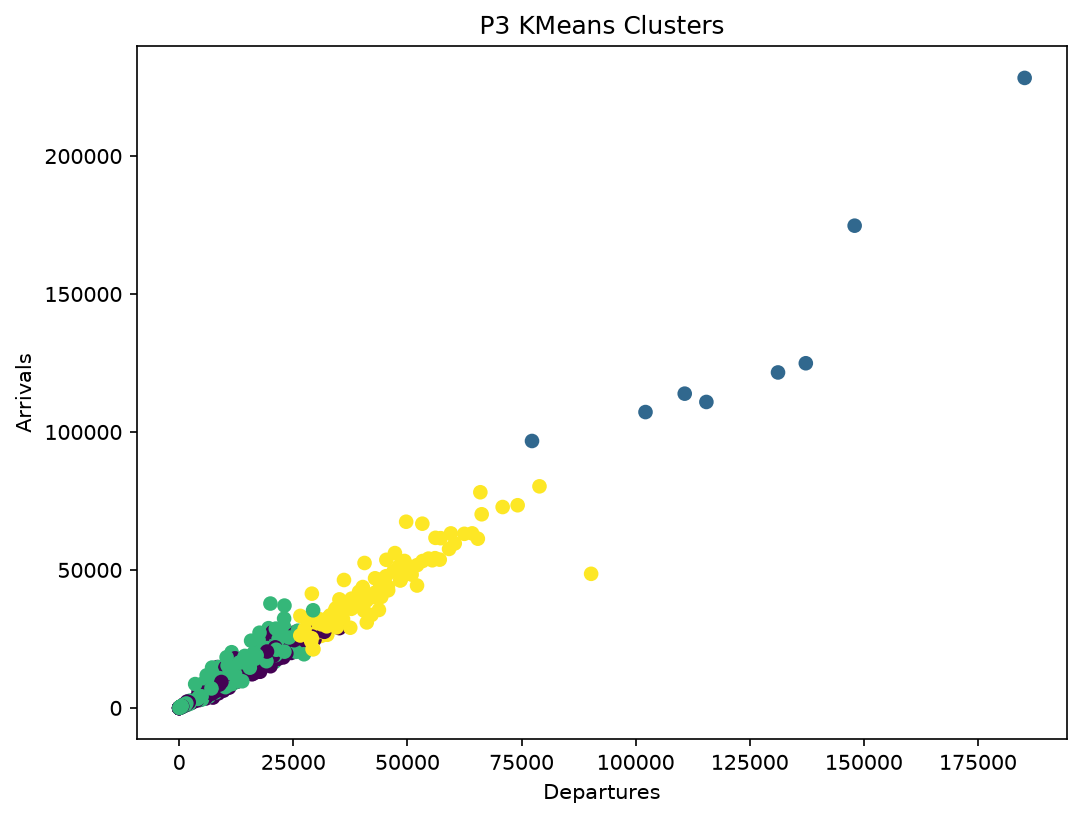
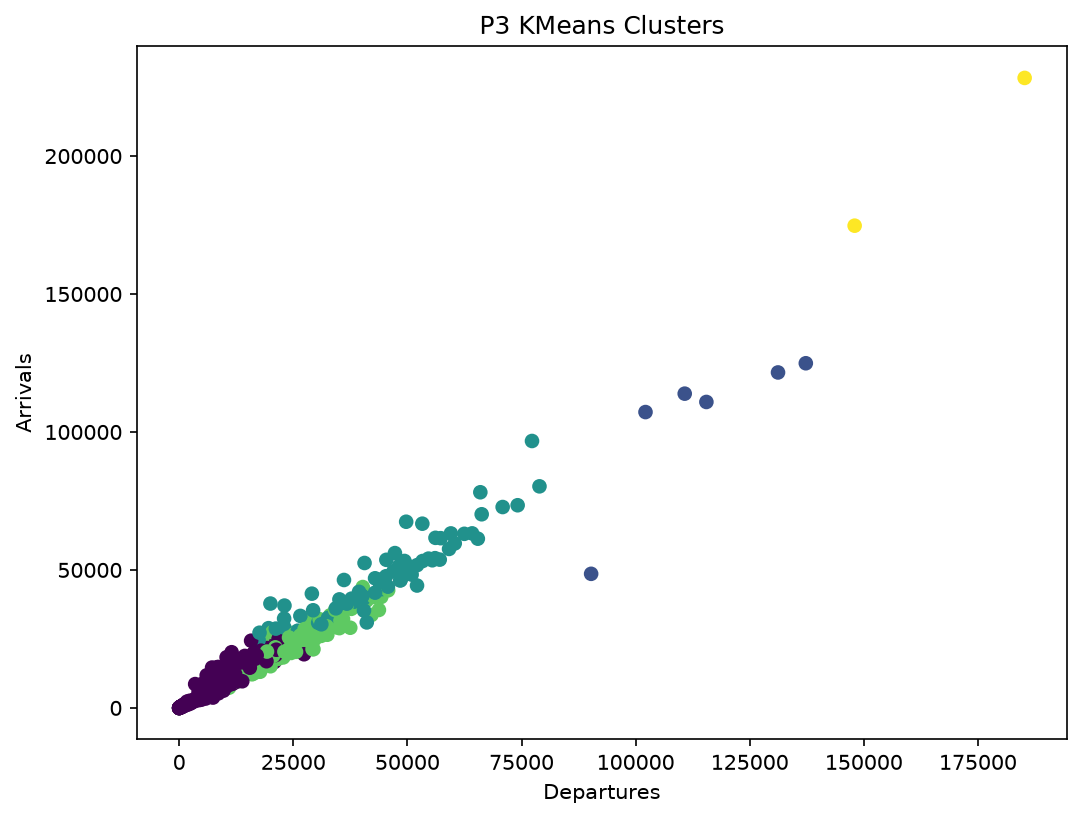
changed runs naming convention

diff --git a/mibici/modeling/p3.py b/mibici/modeling/p3.py
@@ -130,15 +130,20 @@ def run_p3(manifest_path=config.P1_DATA_MANIFEST,
     config.P1_EXPERIMENT
     )
 
+    stage = (
+            "baseline"
+            if parameters["n_clusters"] == 5
+            else "candidate"
+        ),
 
     with mlflow.start_run(
-        run_name="P3_kmeans_baseline",
+        run_name=f"P3_kmeans_k{parameters['n_clusters']}",
         nested=mlflow.active_run() is not None,
         tags={
             "team": "13",
             "question": "P3",
             "model_family": "kmeans",
-            "stage_of_work": "baseline",
+            "stage_of_work": stage,
             "git_commit": commit,
             "mlflow.source.git.commit": commit,
         },
